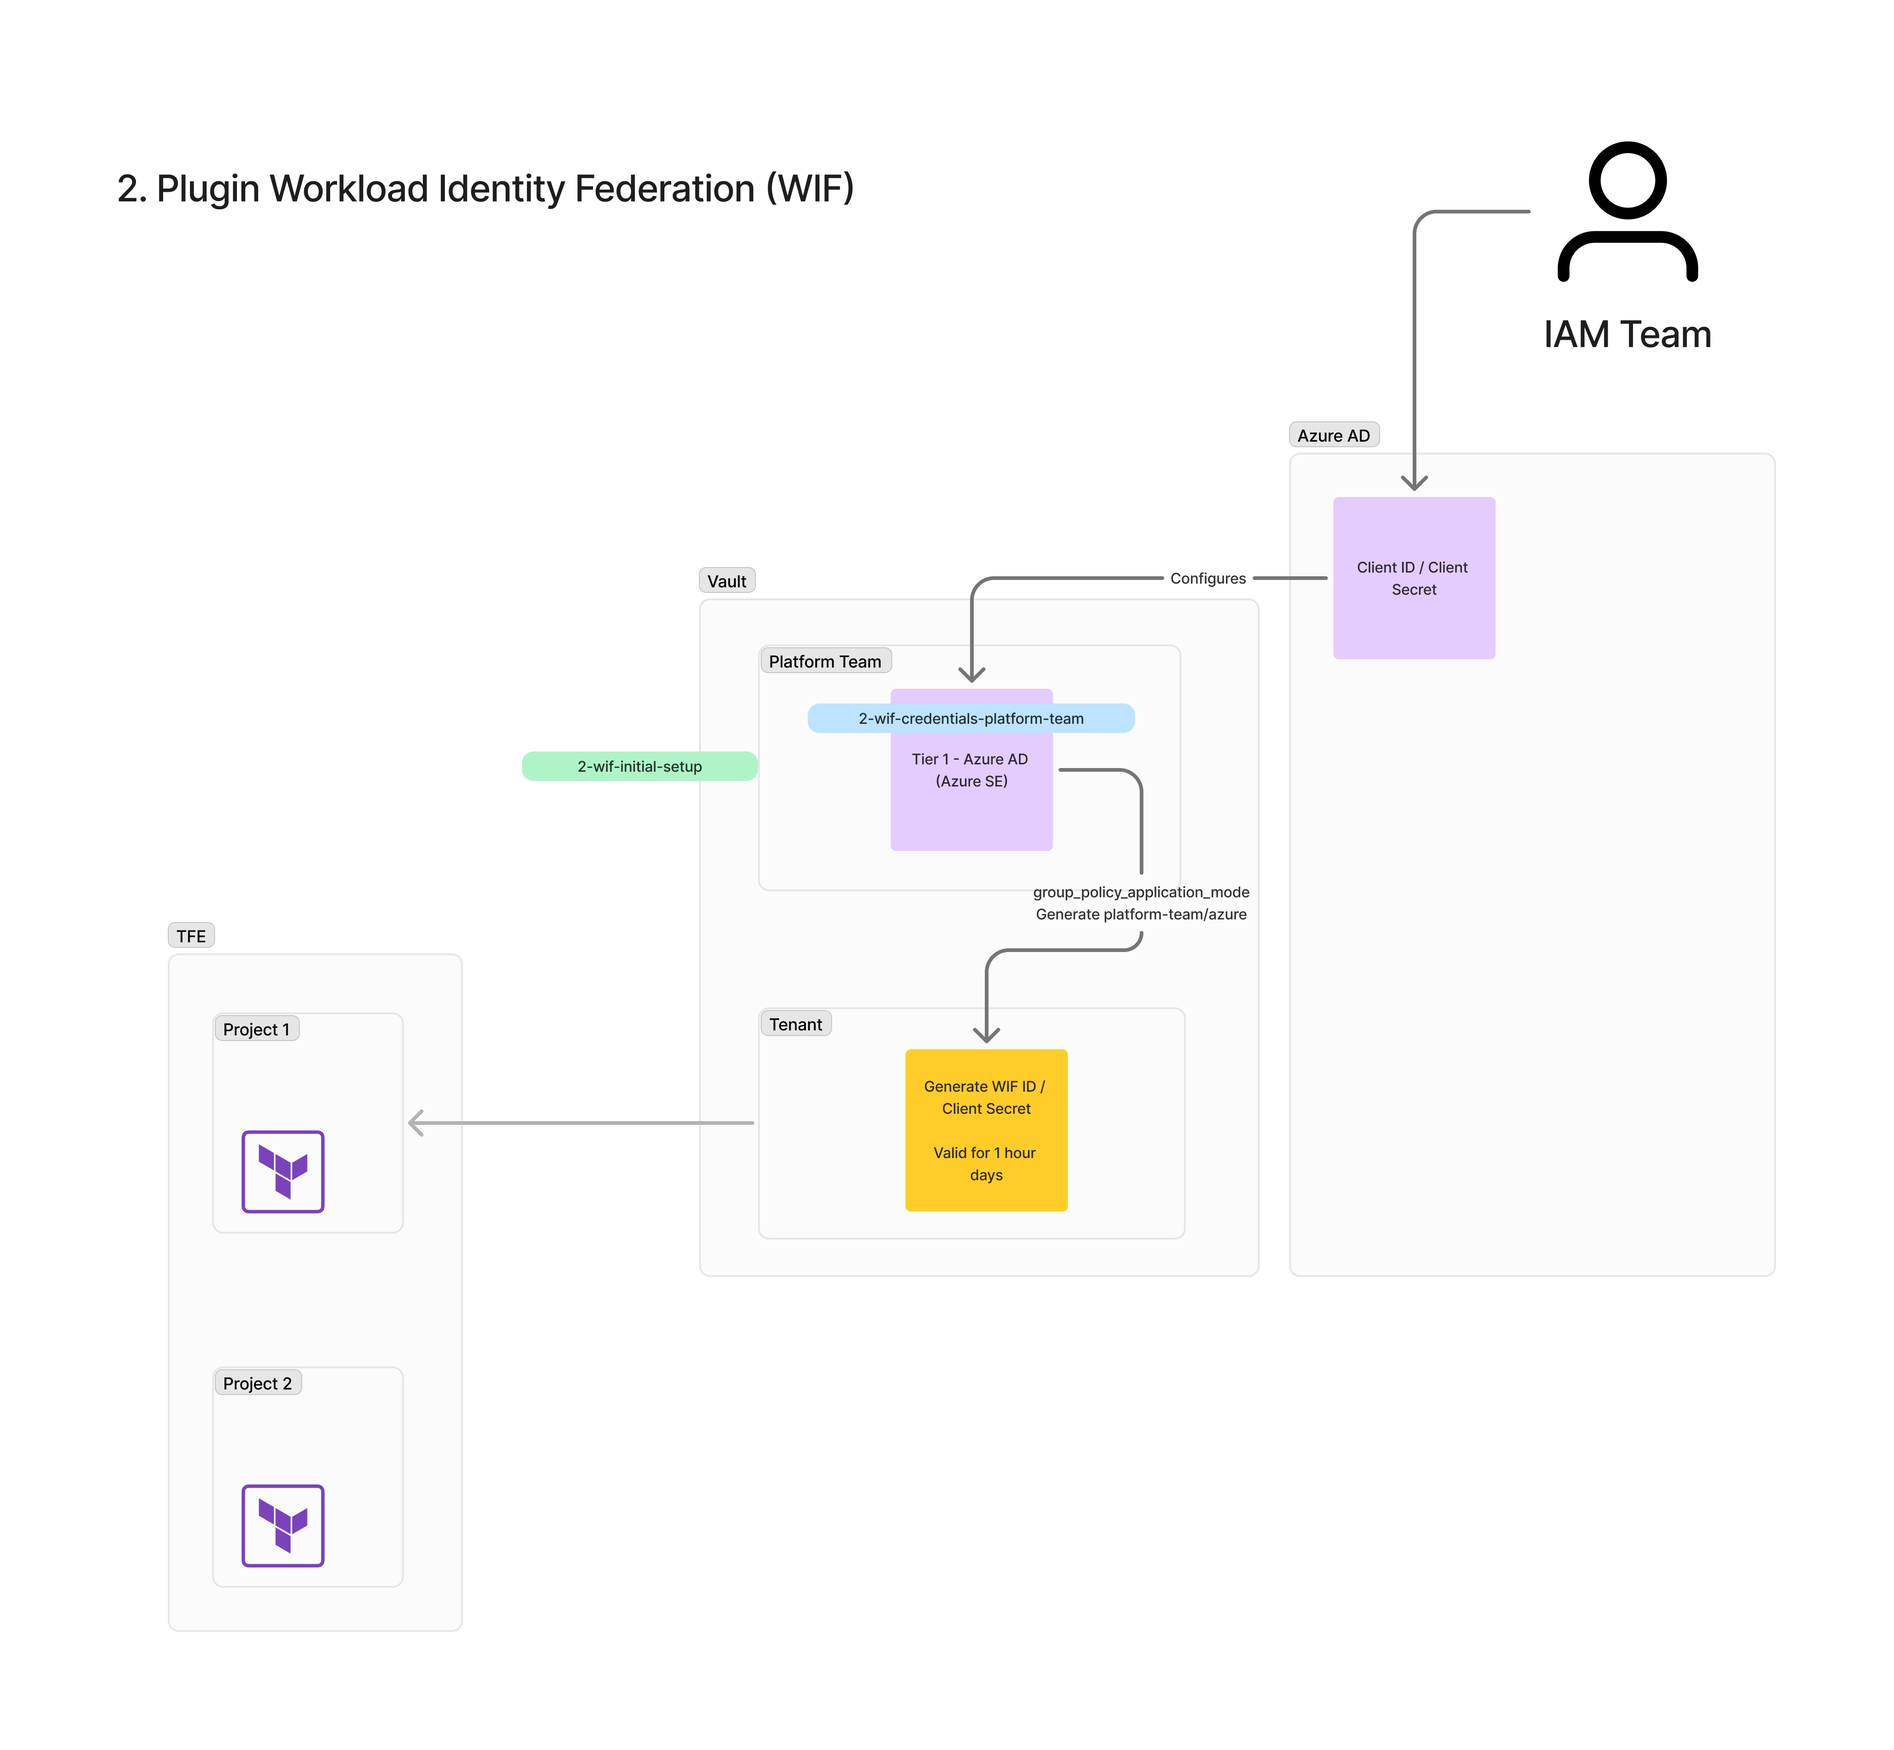
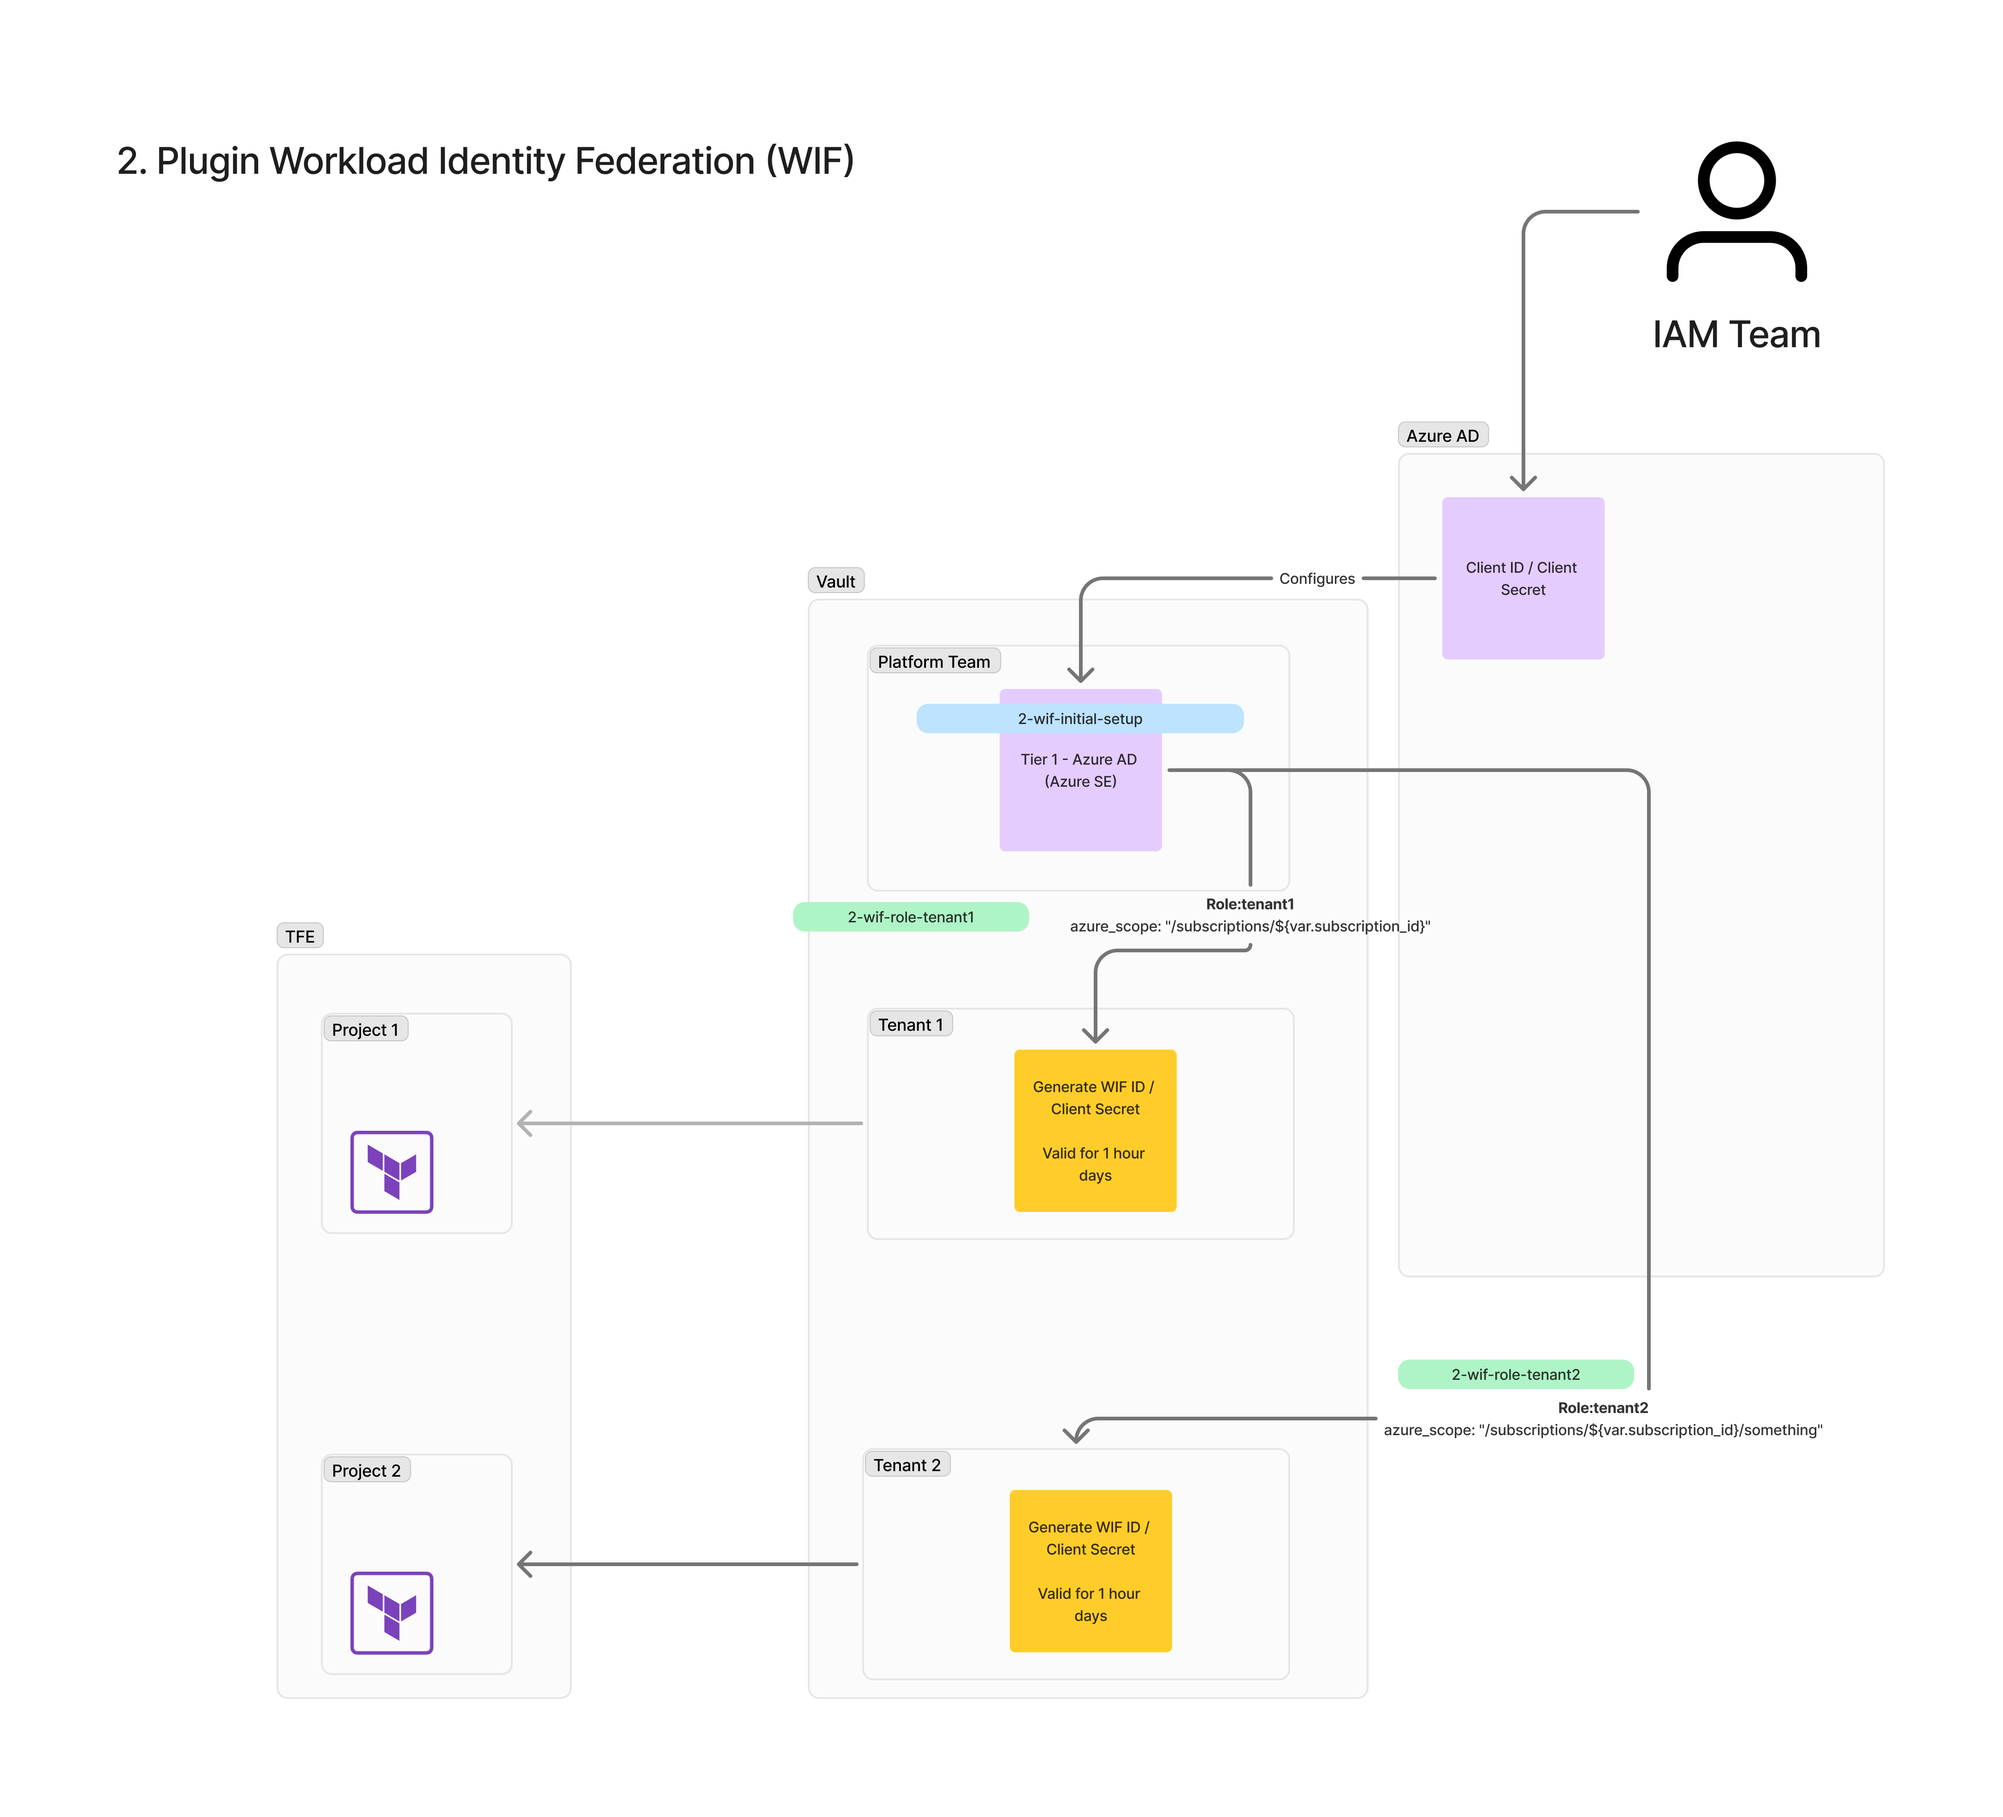
Use a tenant for 2

diff --git a/README.md b/README.md
@@ -297,7 +297,7 @@ Now we need to configure Azure. A more detailed guide can be found for Vault [he
 
 ```bash
 cd ..
-cd 2-wif-role-tenant
+cd 2-wif-role-tenant1
 terraform init
 terraform apply
 ```
@@ -307,7 +307,7 @@ terraform apply
 export VAULT_NAMESPACE="platform-team"
 vault read azure/config
 vault list azure/roles
-vault read azure/creds/platform-team
+vault read azure/creds/tenant1
 unset VAULT_NAMESPACE
 ```
 
